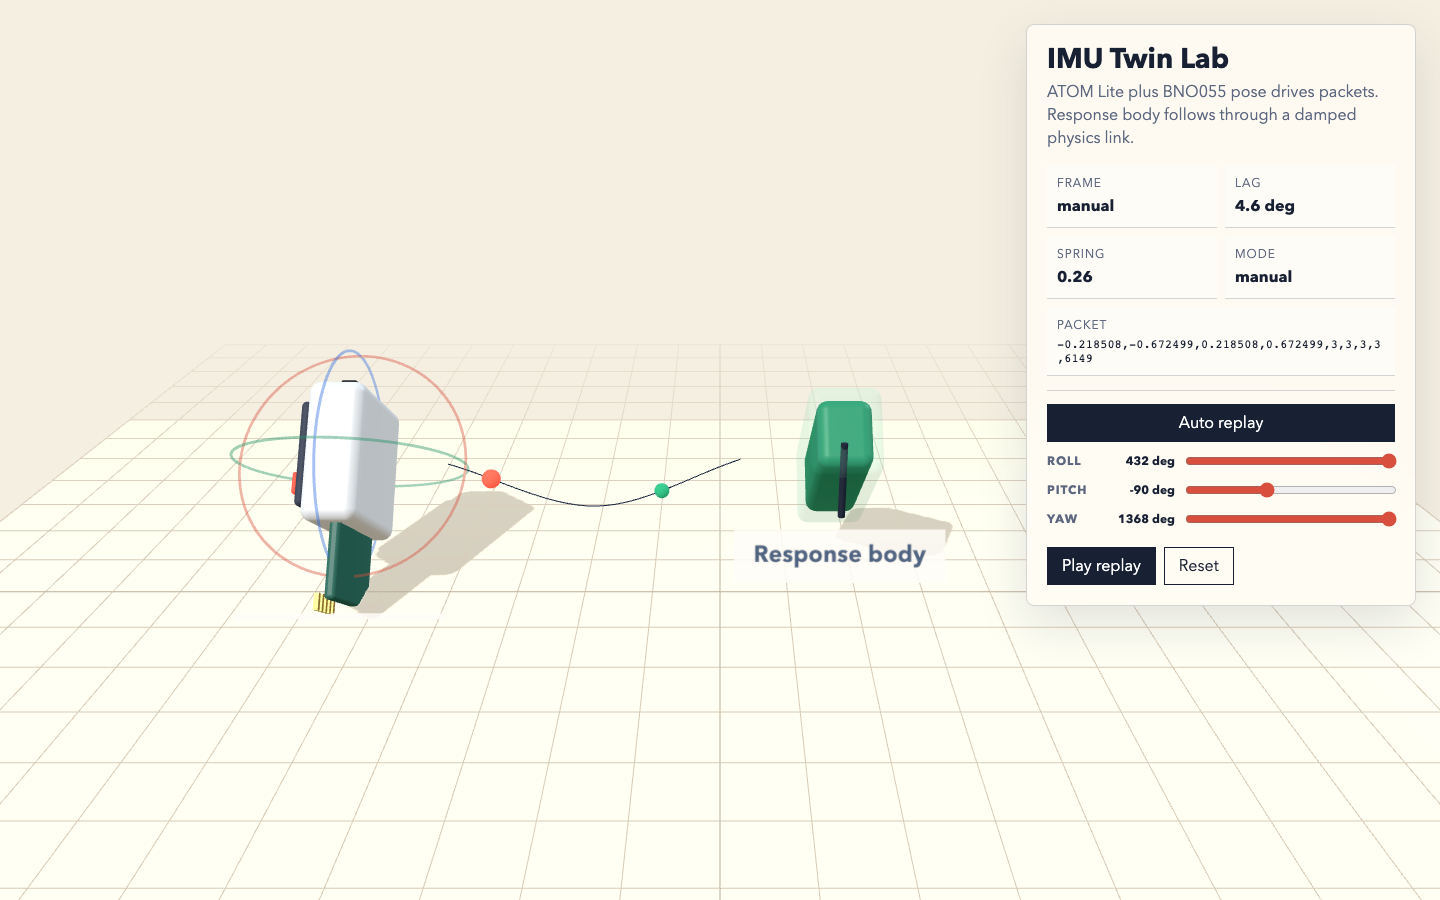
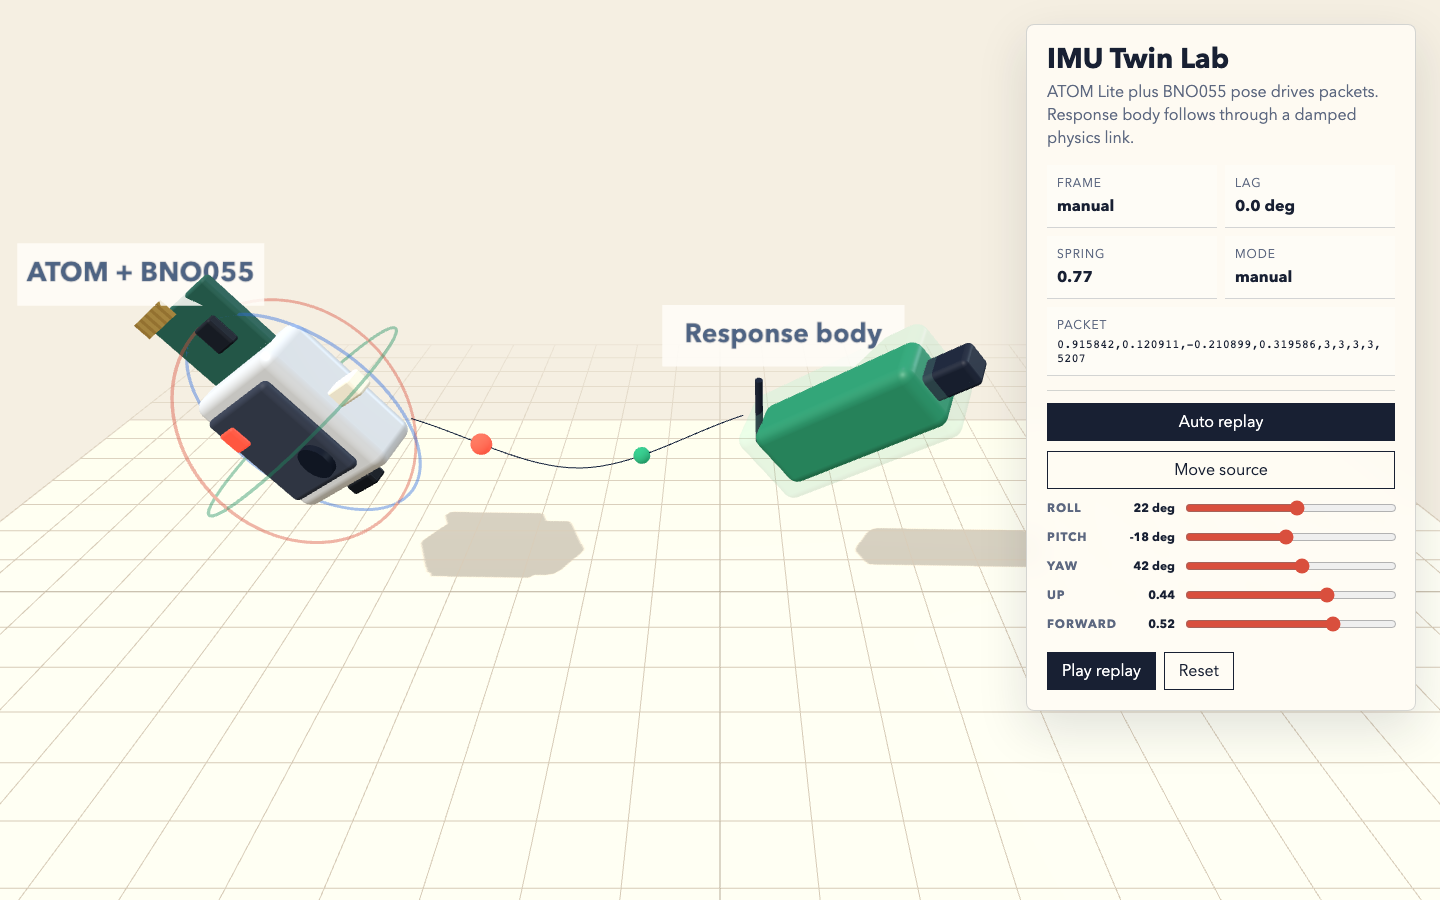
feat: add twin position controls

diff --git a/e2e/twin.spec.ts b/e2e/twin.spec.ts
@@ -53,30 +53,79 @@ test("3D twin lets a user control the source body", async ({ page }) => {
   await page.locator("#source-roll").fill("35");
   await page.locator("#source-pitch").fill("-28");
   await page.locator("#source-yaw").fill("62");
+  await page.locator("#source-up").fill("-0.42");
+  await page.locator("#source-forward").fill("0.58");
 
   await page.waitForFunction(
     () =>
       window.__TWIN_METRICS?.mode === "manual" &&
       window.__TWIN_METRICS?.manualRoll === 35 &&
       window.__TWIN_METRICS?.manualPitch === -28 &&
-      window.__TWIN_METRICS?.manualYaw === 62
+      window.__TWIN_METRICS?.manualYaw === 62 &&
+      window.__TWIN_METRICS?.manualUp === -0.42 &&
+      window.__TWIN_METRICS?.manualForward === 0.58
   );
 
   await expect(page.locator("#source-roll-value")).toHaveText("35 deg");
   await expect(page.locator("#source-pitch-value")).toHaveText("-28 deg");
   await expect(page.locator("#source-yaw-value")).toHaveText("62 deg");
+  await expect(page.locator("#source-up-value")).toHaveText("-0.42");
+  await expect(page.locator("#source-forward-value")).toHaveText("0.58");
   await expect(page.locator("#twin-packet")).toContainText(",3,3,3,3,");
 
   const manualMetrics = await page.evaluate(() => window.__TWIN_METRICS);
   expect(manualMetrics.leftY).toBeLessThan(0);
   expect(manualMetrics.leftZ).toBeGreaterThan(0);
 
-  await page.waitForFunction(() => Math.abs(window.__TWIN_METRICS?.rightZ ?? 0) > 0.01);
+  await page.waitForFunction(
+    () =>
+      Math.abs((window.__TWIN_METRICS?.rightY ?? 10) - (window.__TWIN_METRICS?.leftY ?? 0)) < 0.08 &&
+      Math.abs((window.__TWIN_METRICS?.rightZ ?? 10) - (window.__TWIN_METRICS?.leftZ ?? 0)) < 0.08
+  );
   const respondingMetrics = await page.evaluate(() => window.__TWIN_METRICS);
+  expect(respondingMetrics.rightY).toBeLessThan(0);
   expect(respondingMetrics.rightZ).toBeGreaterThan(0);
 
   await page.getByRole("button", { name: "Auto replay" }).click();
   await expect(page.locator("#twin-mode")).toHaveText("replay");
+});
+
+test("3D twin moves source up down and forward backward", async ({ page }) => {
+  await page.goto("/web/twin.html");
+  await page.waitForFunction(() => window.__TWIN_READY === true);
+
+  await page.getByRole("button", { name: "Manual source" }).click();
+  await page.getByRole("button", { name: "Move source" }).click();
+  await expect(page.getByRole("button", { name: "Rotate source" })).toBeVisible();
+
+  const canvas = page.locator("#twin-scene");
+  const box = await canvas.boundingBox();
+  expect(box).not.toBeNull();
+  const startX = box!.x + box!.width * 0.2;
+  const startY = box!.y + box!.height * 0.34;
+
+  await page.mouse.move(startX, startY);
+  await page.mouse.down();
+  await page.mouse.move(startX + 150, startY - 120, { steps: 14 });
+  await page.mouse.up();
+
+  await page.waitForFunction(
+    () =>
+      window.__TWIN_METRICS?.mode === "manual" &&
+      (window.__TWIN_METRICS?.manualUp ?? 0) > 0.5 &&
+      (window.__TWIN_METRICS?.manualForward ?? 0) > 0.5
+  );
+  await page.waitForFunction(
+    () =>
+      Math.abs((window.__TWIN_METRICS?.rightY ?? 10) - (window.__TWIN_METRICS?.leftY ?? 0)) < 0.08 &&
+      Math.abs((window.__TWIN_METRICS?.rightZ ?? 10) - (window.__TWIN_METRICS?.leftZ ?? 0)) < 0.08
+  );
+
+  const movedMetrics = await page.evaluate(() => window.__TWIN_METRICS);
+  expect(movedMetrics.leftY).toBeGreaterThan(0.5);
+  expect(movedMetrics.leftZ).toBeGreaterThan(0.5);
+  expect(Math.abs(movedMetrics.rightY - movedMetrics.leftY)).toBeLessThan(0.08);
+  expect(Math.abs(movedMetrics.rightZ - movedMetrics.leftZ)).toBeLessThan(0.08);
 });
 
 test("3D twin supports direct 360 pointer control", async ({ page }, testInfo) => {

diff --git a/web/twin.js b/web/twin.js
@@ -11,12 +11,17 @@ const packetEl = document.getElementById("twin-packet");
 const toggle = document.getElementById("twin-toggle");
 const reset = document.getElementById("twin-reset");
 const sourceMode = document.getElementById("source-mode");
+const transformMode = document.getElementById("transform-mode");
 const rollInput = document.getElementById("source-roll");
 const pitchInput = document.getElementById("source-pitch");
 const yawInput = document.getElementById("source-yaw");
+const upInput = document.getElementById("source-up");
+const forwardInput = document.getElementById("source-forward");
 const rollValue = document.getElementById("source-roll-value");
 const pitchValue = document.getElementById("source-pitch-value");
 const yawValue = document.getElementById("source-yaw-value");
+const upValue = document.getElementById("source-up-value");
+const forwardValue = document.getElementById("source-forward-value");
 
 const renderer = new THREE.WebGLRenderer({
   canvas,
@@ -95,12 +100,13 @@ let frameIndex = 0;
 let playing = true;
 let manualSource = false;
 let previousTime = performance.now();
+let sourceTransformMode = "rotate";
 const drag = { active: false, pointerId: null, x: 0, y: 0, rolling: false };
 const replyQuaternion = new THREE.Quaternion();
 const replyVelocity = new THREE.Vector3();
 const replyBase = new THREE.Vector3(0.85, 0, 0);
 const targetPosition = new THREE.Vector3();
-const manual = { roll: 0, pitch: 0, yaw: 0 };
+const manual = { roll: 0, pitch: 0, yaw: 0, up: 0, forward: 0 };
 
 window.__TWIN_READY = false;
 window.__TWIN_METRICS = {
@@ -113,6 +119,8 @@ window.__TWIN_METRICS = {
   manualRoll: 0,
   manualPitch: 0,
   manualYaw: 0,
+  manualUp: 0,
+  manualForward: 0,
 };
 
 function quaternionFromSample(sample) {
@@ -149,11 +157,7 @@ function manualQuaternion() {
 }
 
 function manualSourcePosition() {
-  return new THREE.Vector3(
-    -2.7,
-    Math.sin(THREE.MathUtils.degToRad(manual.pitch)) * 0.24,
-    Math.sin(THREE.MathUtils.degToRad(manual.yaw)) * 0.32
-  );
+  return new THREE.Vector3(-2.7, manual.up, manual.forward);
 }
 
 function manualPacket(quaternion) {
@@ -197,10 +201,15 @@ function updateControlLabels() {
   rollValue.textContent = `${manual.roll} deg`;
   pitchValue.textContent = `${manual.pitch} deg`;
   yawValue.textContent = `${manual.yaw} deg`;
+  upValue.textContent = manual.up.toFixed(2);
+  forwardValue.textContent = manual.forward.toFixed(2);
   rollInput.value = String(THREE.MathUtils.clamp(manual.roll, -360, 360));
   pitchInput.value = String(THREE.MathUtils.clamp(manual.pitch, -360, 360));
   yawInput.value = String(THREE.MathUtils.clamp(manual.yaw, -360, 360));
+  upInput.value = String(THREE.MathUtils.clamp(manual.up, -1.2, 1.2));
+  forwardInput.value = String(THREE.MathUtils.clamp(manual.forward, -1.2, 1.2));
   sourceMode.textContent = manualSource ? "Auto replay" : "Manual source";
+  transformMode.textContent = sourceTransformMode === "rotate" ? "Move source" : "Rotate source";
   toggle.textContent = manualSource ? "Play replay" : playing ? "Pause" : "Play";
 }
 
@@ -230,8 +239,8 @@ function step(now) {
     reply.group.quaternion.copy(replyQuaternion);
 
     targetPosition.copy(replyBase);
-    targetPosition.y = source.group.position.y * 0.72;
-    targetPosition.z = source.group.position.z * 0.72;
+    targetPosition.y = source.group.position.y;
+    targetPosition.z = source.group.position.z;
     const displacement = targetPosition.clone().sub(reply.group.position);
     replyVelocity.addScaledVector(displacement, 18 * dt);
     replyVelocity.multiplyScalar(Math.max(0, 1 - 4.2 * dt));
@@ -265,6 +274,8 @@ function step(now) {
       manualRoll: manual.roll,
       manualPitch: manual.pitch,
       manualYaw: manual.yaw,
+      manualUp: manual.up,
+      manualForward: manual.forward,
     };
   }
 
@@ -289,14 +300,23 @@ reset.addEventListener("click", () => {
   manual.roll = 0;
   manual.pitch = 0;
   manual.yaw = 0;
+  manual.up = 0;
+  manual.forward = 0;
   rollInput.value = "0";
   pitchInput.value = "0";
   yawInput.value = "0";
+  upInput.value = "0";
+  forwardInput.value = "0";
   updateControlLabels();
 });
 
 sourceMode.addEventListener("click", () => {
   setManualSource(!manualSource);
+});
+
+transformMode.addEventListener("click", () => {
+  sourceTransformMode = sourceTransformMode === "rotate" ? "move" : "rotate";
+  setManualSource(true);
 });
 
 function bindControl(input, key) {
@@ -309,6 +329,8 @@ function bindControl(input, key) {
 bindControl(rollInput, "roll");
 bindControl(pitchInput, "pitch");
 bindControl(yawInput, "yaw");
+bindControl(upInput, "up");
+bindControl(forwardInput, "forward");
 
 canvas.addEventListener("contextmenu", (event) => event.preventDefault());
 
@@ -318,7 +340,7 @@ canvas.addEventListener("pointerdown", (event) => {
   drag.pointerId = event.pointerId;
   drag.x = event.clientX;
   drag.y = event.clientY;
-  drag.rolling = event.shiftKey || event.altKey || event.button === 2;
+  drag.rolling = sourceTransformMode === "rotate" && (event.shiftKey || event.altKey || event.button === 2);
   canvas.setPointerCapture(event.pointerId);
   setManualSource(true);
   event.preventDefault();
@@ -331,7 +353,10 @@ canvas.addEventListener("pointermove", (event) => {
   drag.x = event.clientX;
   drag.y = event.clientY;
 
-  if (drag.rolling || event.shiftKey || event.altKey) {
+  if (sourceTransformMode === "move") {
+    manual.forward = clampPosition(manual.forward + dx * 0.006);
+    manual.up = clampPosition(manual.up - dy * 0.006);
+  } else if (drag.rolling || event.shiftKey || event.altKey) {
     manual.roll = Math.round(manual.roll + dx * 0.8 + dy * 0.28);
   } else {
     manual.yaw = Math.round(manual.yaw + dx * 1.35);
@@ -339,6 +364,10 @@ canvas.addEventListener("pointermove", (event) => {
   }
   setManualSource(true);
 });
+
+function clampPosition(value) {
+  return Number(THREE.MathUtils.clamp(value, -1.2, 1.2).toFixed(2));
+}
 
 canvas.addEventListener("pointerup", (event) => {
   if (drag.pointerId !== event.pointerId) return;

diff --git a/web/twin.html b/web/twin.html
@@ -37,6 +37,7 @@
       </dl>
       <section class="source-controls" aria-label="source controls">
         <button id="source-mode" type="button">Manual source</button>
+        <button id="transform-mode" type="button">Move source</button>
         <label>
           Roll
           <span id="source-roll-value">0 deg</span>
@@ -51,6 +52,16 @@
           Yaw
           <span id="source-yaw-value">0 deg</span>
           <input id="source-yaw" type="range" min="-360" max="360" value="0" step="1" />
+        </label>
+        <label>
+          Up
+          <span id="source-up-value">0.00</span>
+          <input id="source-up" type="range" min="-1.2" max="1.2" value="0" step="0.01" />
+        </label>
+        <label>
+          Forward
+          <span id="source-forward-value">0.00</span>
+          <input id="source-forward" type="range" min="-1.2" max="1.2" value="0" step="0.01" />
         </label>
       </section>
       <div class="controls">

diff --git a/web/twin.css b/web/twin.css
@@ -158,13 +158,19 @@ button:hover {
   transform: translateY(-1px);
 }
 
-button + button {
+.controls button + button {
   background: transparent;
   color: var(--ink);
 }
 
-#source-mode {
+#source-mode,
+#transform-mode {
   width: 100%;
+}
+
+#transform-mode {
+  background: transparent;
+  color: var(--ink);
 }
 
 @media (max-width: 820px) {

diff --git a/README.md b/README.md
@@ -176,9 +176,10 @@ scripts/lab
 Use the printed base URL and open `/web/twin.html`.
 
 The twin starts in replay mode. Use `Manual source`, drag the scene for 360 yaw
-and pitch, use the mouse wheel for roll, or set exact roll, pitch, and yaw
-values with sliders. The right body keeps responding through the same damped
-wire simulation.
+and pitch, use the mouse wheel for roll, or switch to `Move source` and drag to
+move up/down and forward/backward in 3D space. Exact pose and position sliders
+are also available. The right body keeps responding through the same damped wire
+simulation and matches the source Y/Z position while staying on its own side.
 
 Record the direct-control video:
 